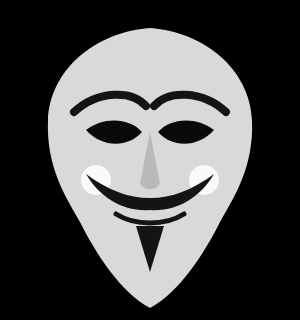
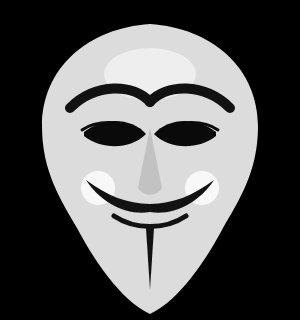
art: refresh the HEX "face in code" mask (original, MIT-clean)
Redrew the anonymous-netrunner mask (assets/hex-mask.svg) as a cleaner, more
refined original — broad shield face, thick arched brows, almond eyes with a
liner flick, slim nose, calm smile, trimmed moustache and a plain vertical chin
stripe. Evokes the pale-theatrical-mask silhouette without copying the
trademarked V-for-Vendetta / Guy Fawkes design, so it stays MIT with the rest
of the project. Regenerated public/hex-mask.png; updated the stale "Guy Fawkes"
references in HexFace/CommsPane/README.

Tests: tsc, build, smoke 29/29 (face-in-code present + resolves).

diff --git a/src/ui/HexFace.tsx b/src/ui/HexFace.tsx
@@ -1,8 +1,10 @@
 import { useEffect, useRef } from "react";
 
 // HEX's "Face in Code" visualizer — the jaredrhod/ai-visualizer approach:
-// the actual Guy Fawkes mask image is sampled into a grid and re-rendered as
-// green ASCII/code glyphs whose density follows the image's brightness. The
+// an original stylized "anonymous netrunner" mask (public/hex-mask.png, drawn
+// from assets/hex-mask.svg — MIT, not the trademarked V-mask) is sampled into a
+// grid and re-rendered as green ASCII/code glyphs whose density follows the
+// image's brightness. The
 // face only resolves while HEX is transmitting or the voice is speaking; when
 // idle it fades to black ("awaiting signal"). A generic Anonymous symbol, not
 // a depiction of any real person.

diff --git a/src/ui/CommsPane.tsx b/src/ui/CommsPane.tsx
@@ -8,7 +8,7 @@ import type { CommsEntry, CommsReply } from "../engine/types";
 
 // The "old BBS comms server" side panel. New HEX transmissions arrive from the
 // store, are revealed with a typewriter effect (and read aloud as they type
-// when voice is on), and pulse the Guy Fawkes "face in code" while HEX speaks.
+// when voice is on), and pulse the original "face in code" mask while HEX speaks.
 // At story beats, pre-written player replies are offered as clickable chips
 // that post into the feed as YOU> and draw a tailored HEX response.
 

diff --git a/README.md b/README.md
@@ -7,7 +7,7 @@ A cyberpunk synthwave TUI-style web game teaching cybersecurity fundamentals —
 **Playable end-to-end.** All 13 episodes (Prologue + Acts I–IV) run start-to-finish with the full command engine, the Netrunner Deck, neon/CRT visual FX, synthesized audio, the WARDEN anomaly escalation (0.02 → 10.0-CVSS finale), HEX's mid-campaign confession, the Act III honeypot near-miss, the real-time finale countdown, and both branching endings.
 
 Also included:
-- **HEX comms sidebar** — an old-BBS-style transmission feed with a Guy Fawkes / Anonymous **"Face in Code" visualizer**: the mask image (`public/hex-mask.png`) is sampled into a grid of green code glyphs that resolve only while HEX is transmitting or the voice is speaking. HEX dialogue is routed here instead of the terminal, revealed with a **typewriter effect** (click the feed to skip).
+- **HEX comms sidebar** — an old-BBS-style transmission feed with an original stylized anonymous-mask **"Face in Code" visualizer**: the mask image (`public/hex-mask.png`, drawn from `assets/hex-mask.svg` — MIT, not the trademarked V-mask) is sampled into a grid of green code glyphs that resolve only while HEX is transmitting or the voice is speaking. HEX dialogue is routed here instead of the terminal, revealed with a **typewriter effect** (click the feed to skip).
 - **Prologue briefing box** — the Prologue opens as a Codex-style modal with the mission briefing; HEX's transmission is held until you dismiss it. (Any episode can gate its intro this way via `modal` + `gateIntro`.)
 - **Voice narration** — HEX's lines are read aloud as they type (toggle in the comms panel or `voice`). Pick a system voice in the Prologue box, or use the bundled **SAM (Software Automatic Mouth, 1982) retro-robotic synth** — an on-theme voice that needs no OS voices, so HEX can always be heard (it's also the automatic fallback when the browser exposes no speech voices).
 - **Background music** — a **cycling, shuffled playlist** of royalty-free tracks dropped into `public/music/` (auto-listed at build time; ⏭ skips), with a live **generative synthwave** engine as the fallback when no files are present. See [public/music/README.md](public/music/README.md).
